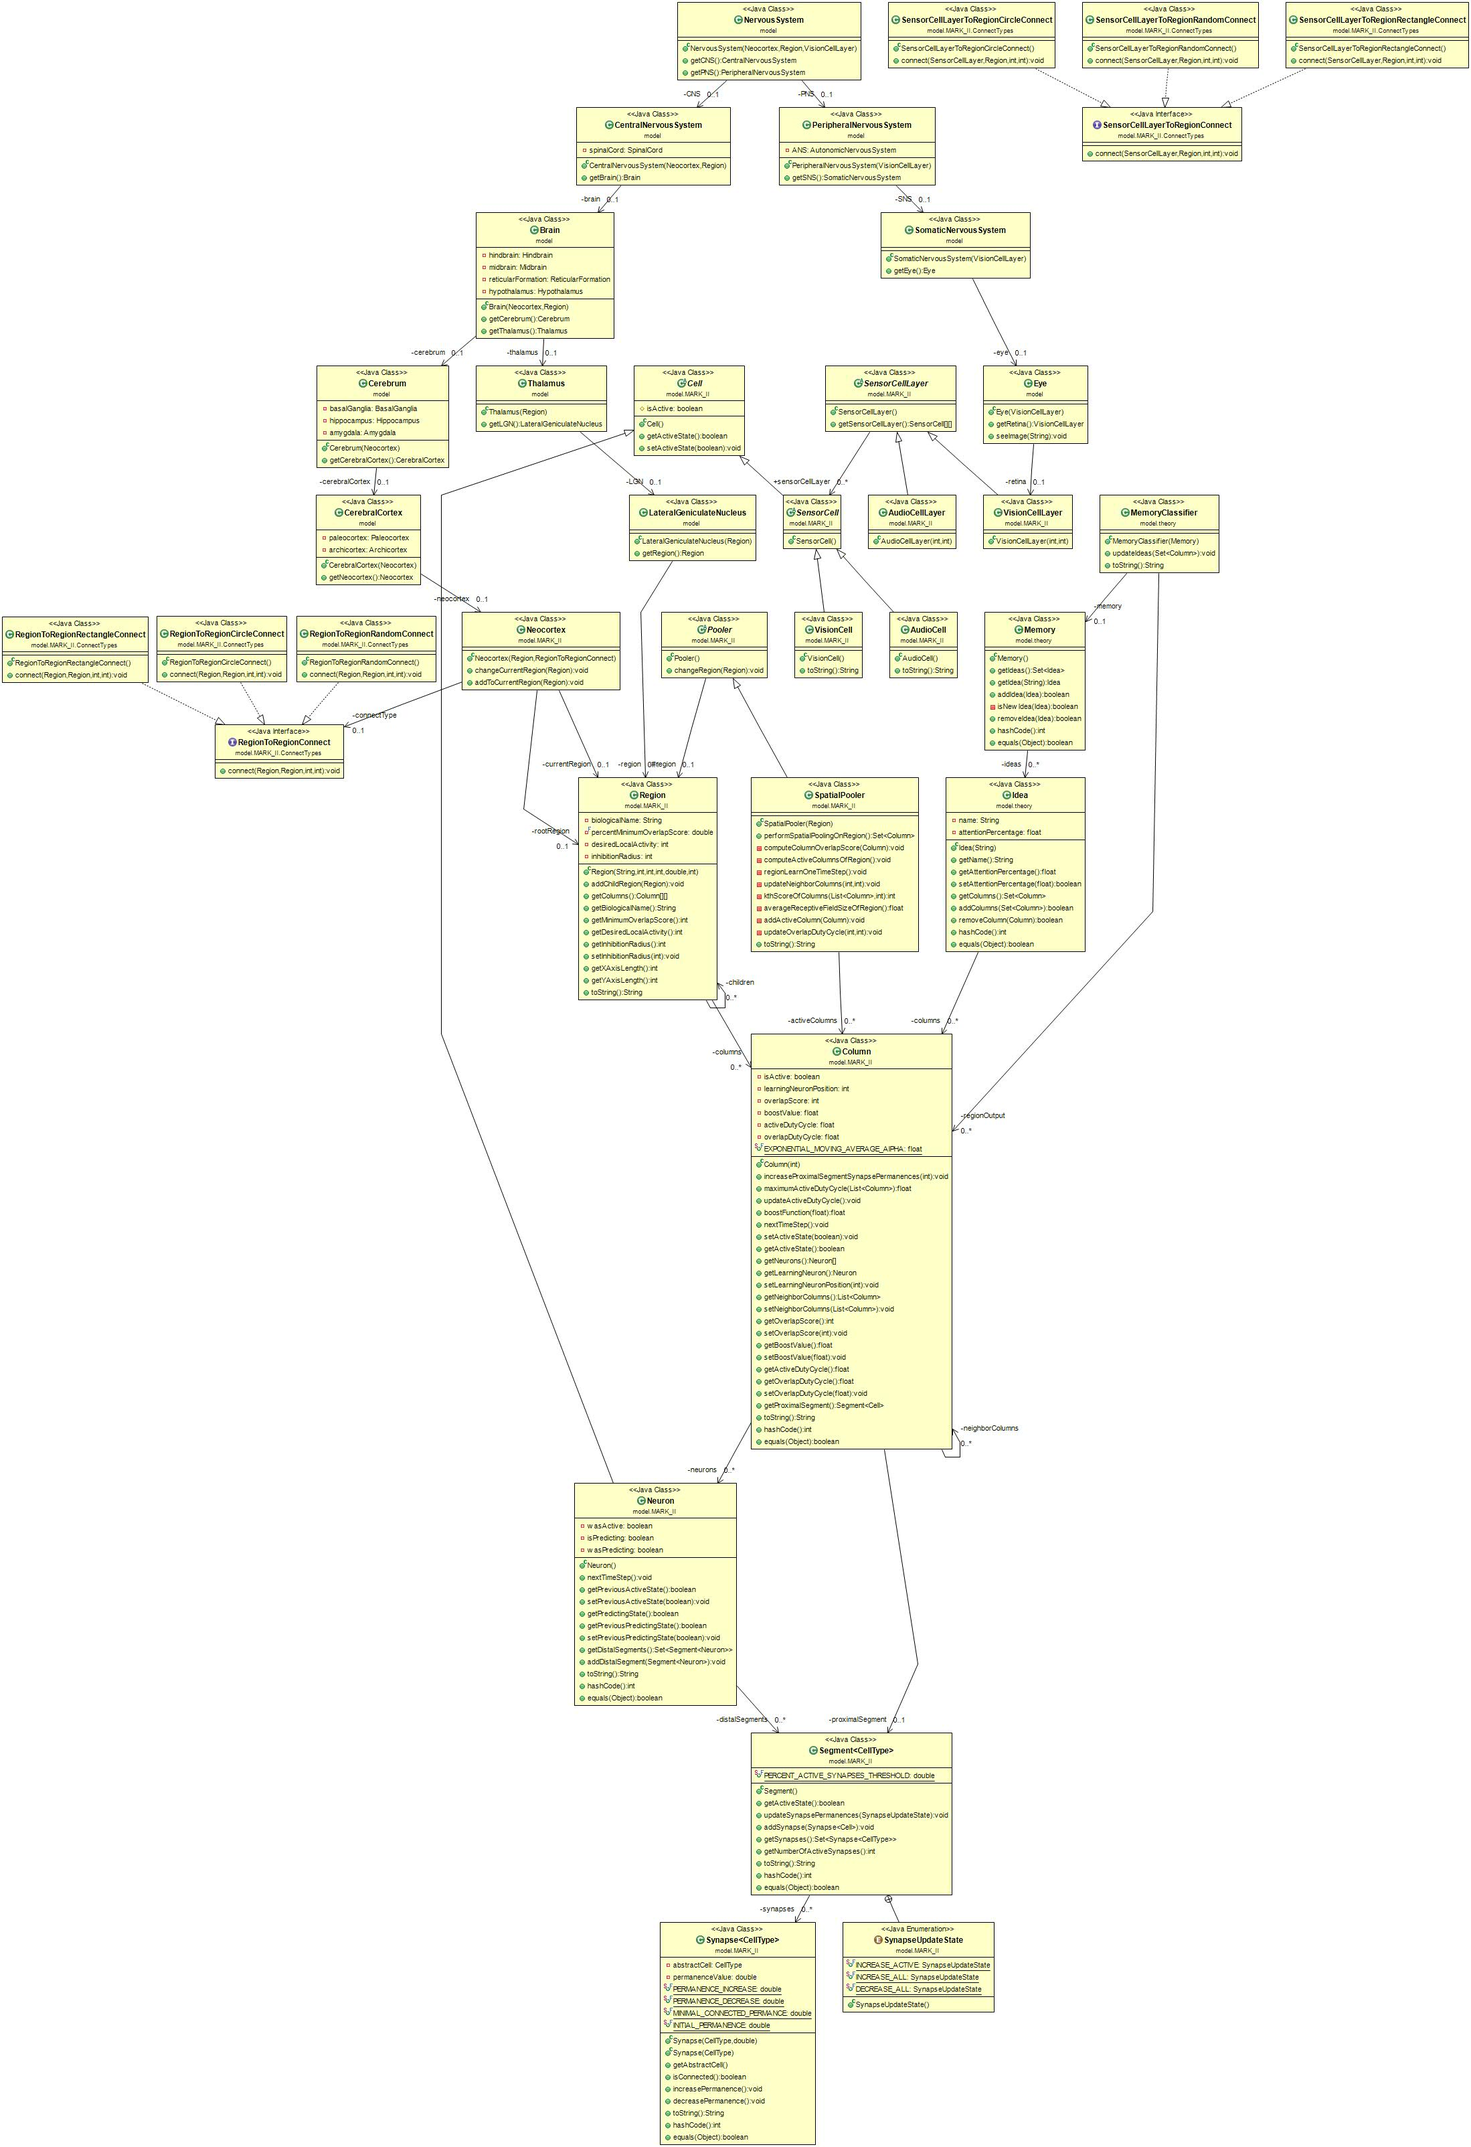
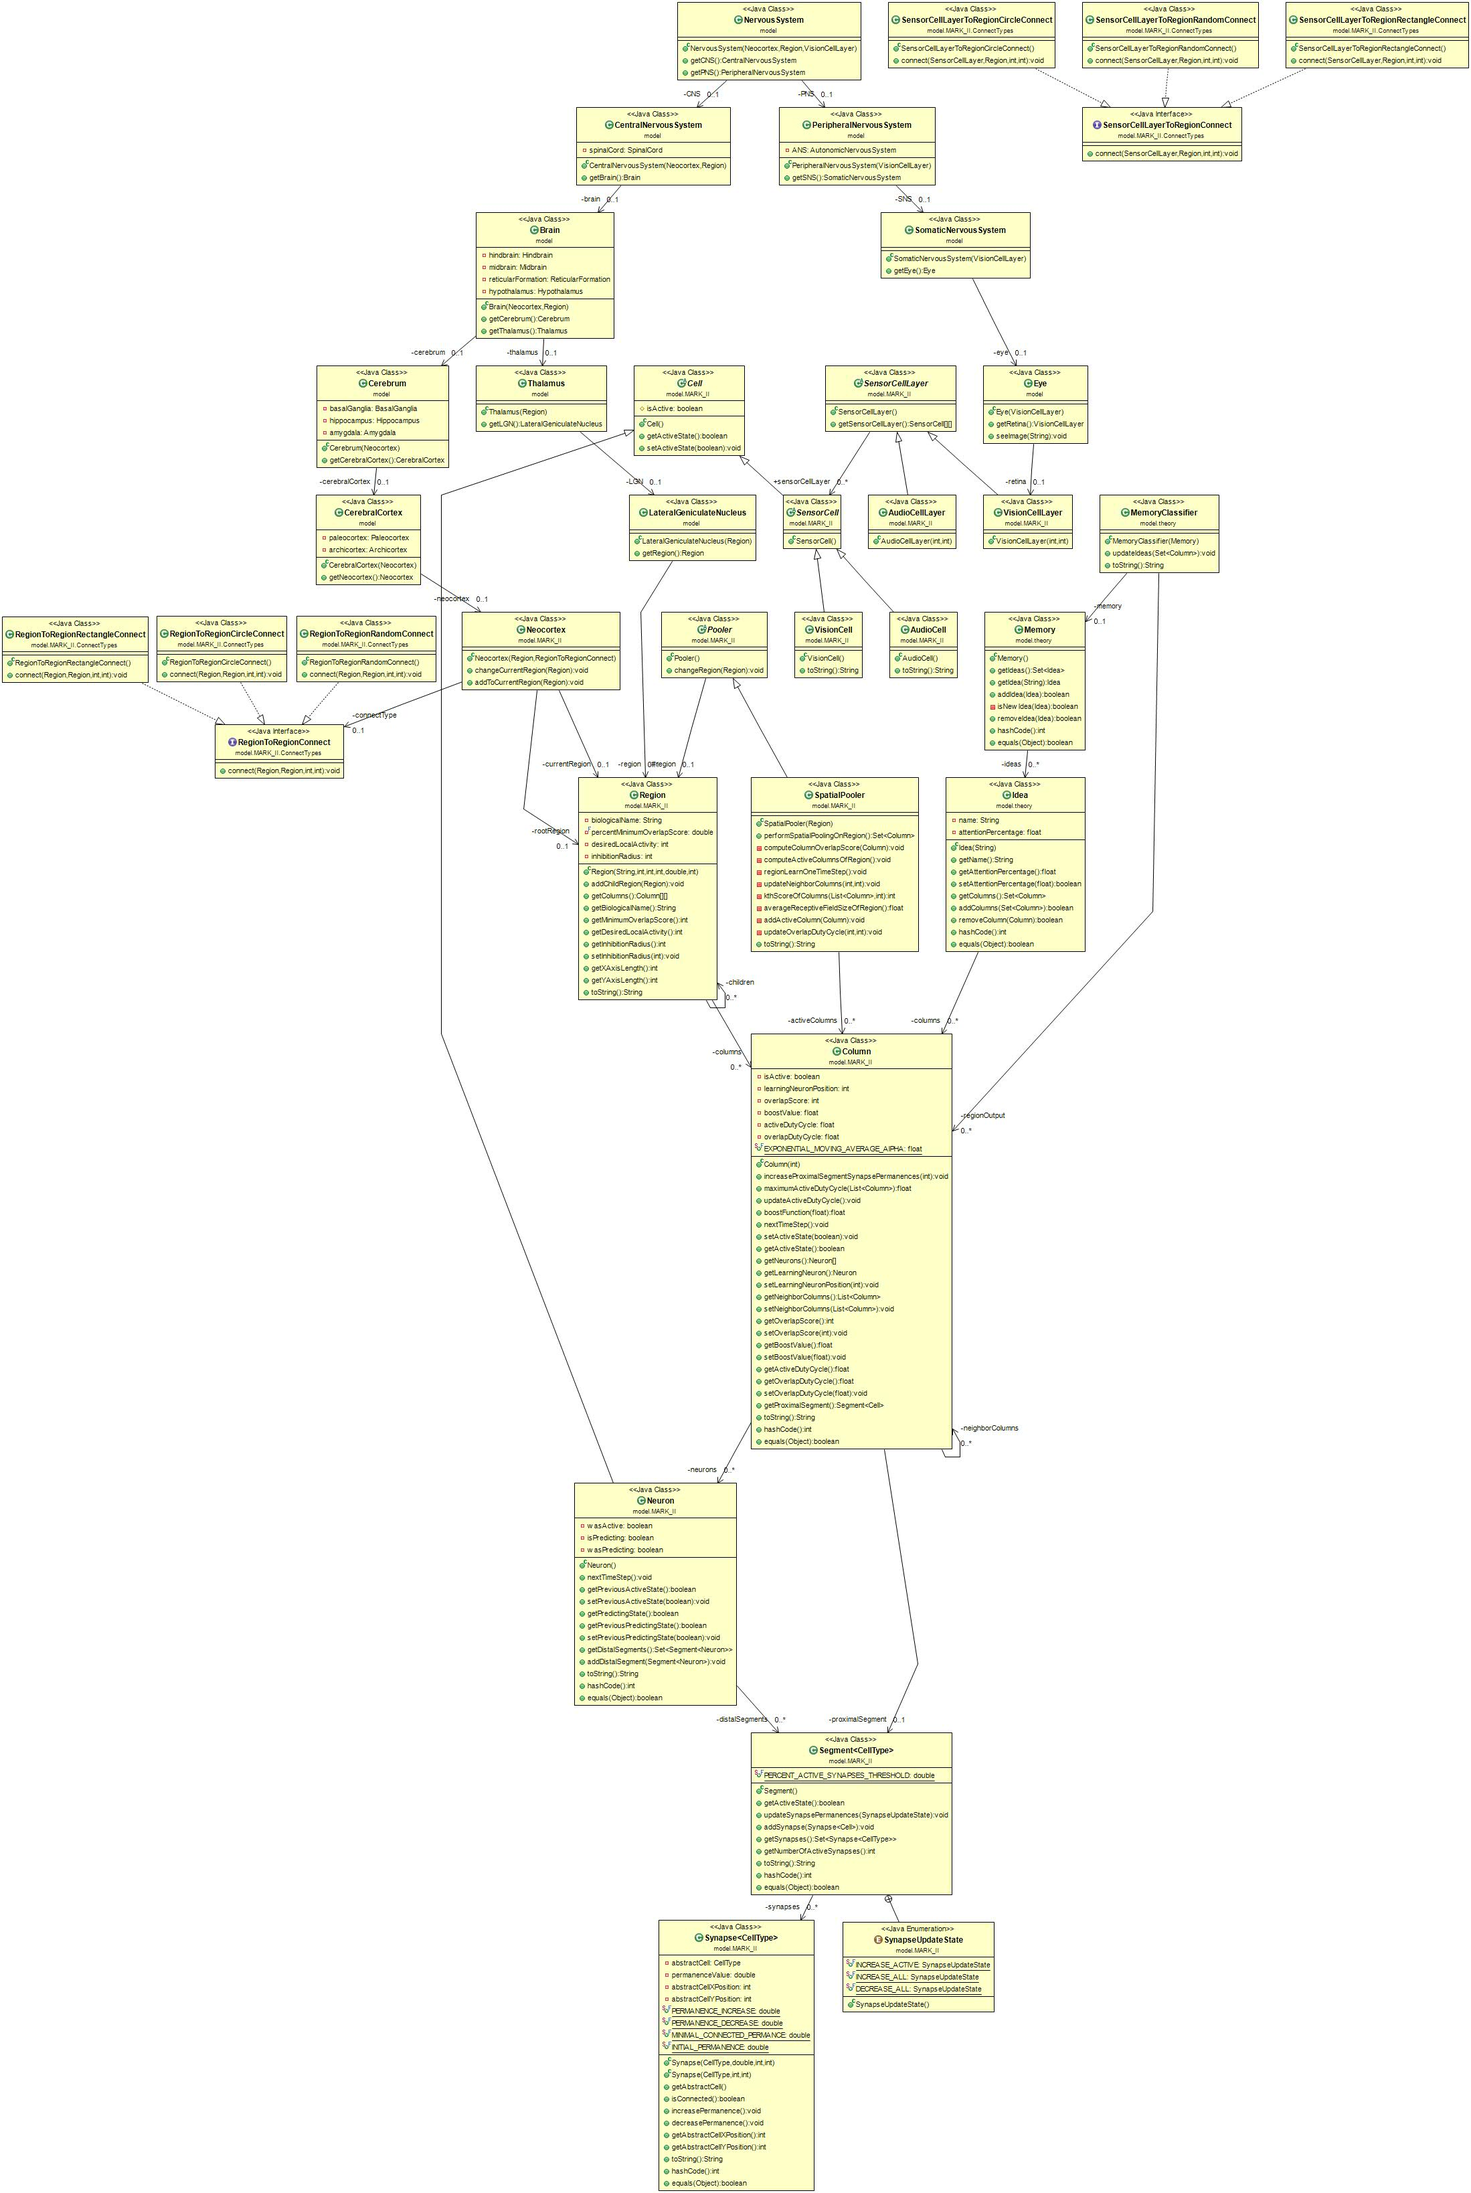
Fix how averageReceptiveFieldSizeOfRegion() method is implemented in SpatialPooler class. I used the fact that synapses store the location of the abstractCell it is connected to instead of storing the abstractCell location inside of the abstractCell object. Because the constructor for a Synapse was 

Changed region(s): [[0.0, 0.0, 0.8353, 0.9978], [0.7425, 0.0, 1.0, 0.0935], [0.6497, 0.4989, 0.6806, 0.5301]]

diff --git a/WalnutiQ/src/model/MARK_II/Synapse.java b/WalnutiQ/src/model/MARK_II/Synapse.java
@@ -33,6 +33,8 @@ public class Synapse<CellType extends Cell> implements
 	Serializable {
     private CellType abstractCell;
     private double permanenceValue;
+    private int abstractCellXPosition;
+    private int abstractCellYPosition;
 
     // class level variables that can be changed for all synapses
     /**
@@ -60,17 +62,18 @@ public class Synapse<CellType extends Cell> implements
      *            The AbstractCell object that will be providing data for a
      *            Synapse object.
      */
-    public Synapse(CellType abstractCell, double initialPermanence) {
+    public Synapse(CellType abstractCell, double initialPermanence, int abstractCellXPosition, int abstractCellYPosition) {
 	if (abstractCell == null) {
 	    throw new IllegalArgumentException(
 		    "abstractCell in Synapse constructor cannot be null");
 	} else if (initialPermanence < 0.0 || initialPermanence > 1.0) {
 	    throw new IllegalArgumentException(
 		    "initialPermanence in Synapse constructor must be between 0 and 1");
-	} else {
-	    this.abstractCell = abstractCell;
-	    this.permanenceValue = initialPermanence;
 	}
+	this.abstractCell = abstractCell;
+	this.permanenceValue = initialPermanence;
+	this.abstractCellXPosition = abstractCellXPosition;
+	this.abstractCellYPosition = abstractCellYPosition;
     }
 
     /**
@@ -81,7 +84,7 @@ public class Synapse<CellType extends Cell> implements
      *            The AbstractCell object that will be providing data for a
      *            Synapse object.
      */
-    public Synapse(CellType abstractCell) {
+    public Synapse(CellType abstractCell, int abstractCellXPosition, int abstractCellYPosition) {
 	if (abstractCell == null) {
 	    throw new IllegalArgumentException(
 		    "abstractCell in Synapse constructor cannot be null");
@@ -89,6 +92,8 @@ public class Synapse<CellType extends Cell> implements
 	    this.abstractCell = abstractCell;
 	    this.permanenceValue = INITIAL_PERMANENCE;
 	}
+	this.abstractCellXPosition = abstractCellXPosition;
+	this.abstractCellYPosition = abstractCellYPosition;
     }
 
     /**
@@ -130,6 +135,14 @@ public class Synapse<CellType extends Cell> implements
 		- PERMANENCE_DECREASE);
     }
 
+    public int getAbstractCellXPosition() {
+	return this.abstractCellXPosition;
+    }
+
+    public int getAbstractCellYPosition() {
+	return this.abstractCellYPosition;
+    }
+
     @Override
     public String toString() {
 	StringBuilder stringBuilder = new StringBuilder();
@@ -138,6 +151,9 @@ public class Synapse<CellType extends Cell> implements
 	stringBuilder.append("\n----Synapse Information----");
 	stringBuilder.append("\n Connected to a: ");
 	stringBuilder.append(this.abstractCell.toString());
+	stringBuilder.append("\n Located at: ");
+	stringBuilder.append("(" + this.abstractCellXPosition + ", ");
+	stringBuilder.append(this.abstractCellYPosition + ")");
 	stringBuilder.append("\npermanenceValue: ");
 	stringBuilder.append(this.permanenceValue);
 	stringBuilder.append("\n    isConnected: ");
@@ -145,7 +161,7 @@ public class Synapse<CellType extends Cell> implements
 	    stringBuilder.append("false");
 	} else {
 	    stringBuilder.append("true");
-	}
+	};
 	stringBuilder.append("\n===========================");
 	String synapseInformation = stringBuilder.toString();
 	return synapseInformation;

diff --git a/WalnutiQ/tests/model/MARK_II/Stub_Synapse.java b/WalnutiQ/tests/model/MARK_II/Stub_Synapse.java
@@ -6,8 +6,8 @@ public class Stub_Synapse<CellType extends Stub_Cell>
 	implements Serializable {
     private CellType abstractCell;
     private double permanenceValue;
-    private int abstractCellX;
-    private int abstractCellY;
+    private int abstractCellXPosition;
+    private int abstractCellYPosition;
 
     // class level variables that can be changed for all synapses
     /**
@@ -35,17 +35,21 @@ public class Stub_Synapse<CellType extends Stub_Cell>
      *            The AbstractCell object that will be providing data for a
      *            Synapse object.
      */
-    public Stub_Synapse(CellType abstractCell, double initialPermanence) {
+    public Stub_Synapse(CellType abstractCell, double initialPermanence, int abstractCellXPosition, int abstractCellYPosition) {
 	if (abstractCell == null) {
 	    throw new IllegalArgumentException(
 		    "abstractCell in Synapse constructor cannot be null");
 	} else if (initialPermanence < 0.0 || initialPermanence > 1.0) {
 	    throw new IllegalArgumentException(
 		    "initialPermanence in Synapse constructor must be between 0 and 1");
-	} else {
-	    this.abstractCell = abstractCell;
-	    this.permanenceValue = initialPermanence;
+	} else if (abstractCellXPosition < 0 || abstractCellYPosition < 0) {
+	    throw new IllegalArgumentException("abstractCellXPosition & abstract"
+		    + "CellYPosition must be greater than 0");
 	}
+	this.abstractCell = abstractCell;
+	this.permanenceValue = initialPermanence;
+	this.abstractCellXPosition = abstractCellXPosition;
+	this.abstractCellYPosition = abstractCellYPosition;
     }
 
     /**
@@ -56,7 +60,7 @@ public class Stub_Synapse<CellType extends Stub_Cell>
      *            The AbstractCell object that will be providing data for a
      *            Synapse object.
      */
-    public Stub_Synapse(CellType abstractCell) {
+    public Stub_Synapse(CellType abstractCell, int abstractCellXPosition, int abstractCellYPosition) {
 	if (abstractCell == null) {
 	    throw new IllegalArgumentException(
 		    "abstractCell in Synapse constructor cannot be null");
@@ -64,6 +68,8 @@ public class Stub_Synapse<CellType extends Stub_Cell>
 	    this.abstractCell = abstractCell;
 	    this.permanenceValue = INITIAL_PERMANENCE;
 	}
+	this.abstractCellXPosition = abstractCellXPosition;
+	this.abstractCellYPosition = abstractCellYPosition;
     }
 
     /**
@@ -117,6 +123,14 @@ public class Stub_Synapse<CellType extends Stub_Cell>
 		- PERMANENCE_DECREASE);
     }
 
+    public int getAbstractCellXPosition() {
+	return this.abstractCellXPosition;
+    }
+
+    public int getAbstractCellYPosition() {
+	return this.abstractCellYPosition;
+    }
+
     @Override
     public String toString() {
 	StringBuilder stringBuilder = new StringBuilder();
@@ -125,6 +139,9 @@ public class Stub_Synapse<CellType extends Stub_Cell>
 	stringBuilder.append("\n----Synapse Information----");
 	stringBuilder.append("\n Connected to a: ");
 	stringBuilder.append(this.abstractCell.toString());
+	stringBuilder.append("\n Located at: ");
+	stringBuilder.append("(" + this.abstractCellXPosition + ", ");
+	stringBuilder.append(this.abstractCellYPosition + ")");
 	stringBuilder.append("\npermanenceValue: ");
 	stringBuilder.append(this.permanenceValue);
 	stringBuilder.append("\n    isConnected: ");

diff --git a/WalnutiQ/tests/model/MARK_II/Test_Segment.java b/WalnutiQ/tests/model/MARK_II/Test_Segment.java
@@ -27,11 +27,11 @@ public class Test_Segment extends junit.framework.TestCase {
 	// add 1 active synapse
 	Stub_VisionCell activeVisionCell_1 = new Stub_VisionCell();
 	activeVisionCell_1.setActiveState(true);
-	tenSynapses.add(new Stub_Synapse<Stub_Cell>(new Stub_VisionCell(), 0.21));
+	tenSynapses.add(new Stub_Synapse<Stub_Cell>(new Stub_VisionCell(), 0.21, 1, 1));
 
 	// and 9 inactive synapses
 	for (int i = 1; i < 10; i++) {
-	    tenSynapses.add(new Stub_Synapse<Stub_Cell>(new Stub_VisionCell(), 0.20-i*0.01));
+	    tenSynapses.add(new Stub_Synapse<Stub_Cell>(new Stub_VisionCell(), 0.20-i*0.01, 1, 1));
 	}
 	assertEquals(10, tenSynapses.size());
 
@@ -40,14 +40,14 @@ public class Test_Segment extends junit.framework.TestCase {
 	assertFalse(this.proximalSegment.getActiveState());
 
 	// Case 2: number of active synapses within segment = activation threshold
-	this.proximalSegment.getSynapses().remove(new Stub_Synapse<Stub_Cell>(new Stub_VisionCell(), 0.19));
+	this.proximalSegment.getSynapses().remove(new Stub_Synapse<Stub_Cell>(new Stub_VisionCell(), 0.19, 1, 1));
 	Stub_VisionCell activeVisionCell_2 = new Stub_VisionCell();
 	activeVisionCell_2.setActiveState(true);
-	this.proximalSegment.getSynapses().add(new Stub_Synapse<Stub_Cell>(activeVisionCell_2, 0.22));
+	this.proximalSegment.getSynapses().add(new Stub_Synapse<Stub_Cell>(activeVisionCell_2, 0.22, 1, 1));
 	assertFalse(this.proximalSegment.getActiveState());
 
 	// Case 3: number of active synapses within segment > activation threshold
-	this.proximalSegment.getSynapses().remove(new Stub_Synapse<Stub_Cell>(new Stub_VisionCell(), 0.17));
+	this.proximalSegment.getSynapses().remove(new Stub_Synapse<Stub_Cell>(new Stub_VisionCell(), 0.17, 1, 1));
 	Stub_VisionCell activeVisionCell_3 = new Stub_VisionCell();
 	activeVisionCell_3.setActiveState(true);
 	//this.proximalSegment.getSynapses().add(new Stub_MARKII_Synapse<Stub_MARKII_AbstractCell>(activeVisionCell_3, 0.23));

diff --git a/WalnutiQ/tests/model/MARK_II/Test_Synapse.java b/WalnutiQ/tests/model/MARK_II/Test_Synapse.java
@@ -12,9 +12,9 @@ public class Test_Synapse extends junit.framework.TestCase {
 	this.visionCell_1 = new Stub_VisionCell();
 	this.visionCell_null = null;
 	this.synapse_1 = new Stub_Synapse<Stub_Cell>(
-		this.visionCell_1);
+		this.visionCell_1, 1, 1);
 	this.synapse_2 = new Stub_Synapse<Stub_Cell>(
-		this.visionCell_1, 0.19);
+		this.visionCell_1, 0.19, 1, 1);
     }
 
     public void testMARKII_Synapse() {
@@ -24,7 +24,7 @@ public class Test_Synapse extends junit.framework.TestCase {
 
 	try {
 	    this.synapse_3 = new Stub_Synapse<Stub_Cell>(
-			this.visionCell_null, 0.21);
+			this.visionCell_null, 0.21, 1, 1);
 	    fail("should've thrown an exception!");
 	} catch (IllegalArgumentException expected) {
 	    // no implementation
@@ -32,7 +32,7 @@ public class Test_Synapse extends junit.framework.TestCase {
 
 	try {
 	    this.synapse_4 = new Stub_Synapse<Stub_Cell>(
-			this.visionCell_1, 1.1);
+			this.visionCell_1, 1.1, 1, 1);
 	    fail("should've thrown an exception!");
 	} catch (IllegalArgumentException expected) {
 	    // no implementation
@@ -40,7 +40,7 @@ public class Test_Synapse extends junit.framework.TestCase {
 
 	try {
 	    this.synapse_4 = new Stub_Synapse<Stub_Cell>(
-			this.visionCell_1, -0.1);
+			this.visionCell_1, -0.1, 1, 1);
 	    fail("should've thrown an exception!");
 	} catch (IllegalArgumentException expected) {
 	    // no implementation

diff --git a/WalnutiQ/tests/model/MARK_II/Stub_SpatialPooler.java b/WalnutiQ/tests/model/MARK_II/Stub_SpatialPooler.java
@@ -300,12 +300,10 @@ public class Stub_SpatialPooler extends Stub_Pooler {
 		    // receptive
 		    // field
 		    for (Stub_Synapse synapse : connectedSynapes) {
-			// double dx = x - synapse.getAbstractCell().getX();
-			// double dy = y - synapse.getAbstractCell().getY();
-			// double synapseDistance = Math.sqrt(dx * dx + dy *
-			// dy);
-			// totalSynapseDistanceFromOriginColumn +=
-			// synapseDistance;
+			double dx = x - synapse.getAbstractCellXPosition();
+			double dy = y - synapse.getAbstractCellYPosition();
+			double synapseDistance = Math.sqrt(dx * dx + dy * dy);
+			totalSynapseDistanceFromOriginColumn += synapseDistance;
 			numberOfSynapses++;
 		    }
 		}

diff --git a/WalnutiQ/src/model/MARK_II/SpatialPooler.java b/WalnutiQ/src/model/MARK_II/SpatialPooler.java
@@ -308,10 +308,10 @@ public class SpatialPooler extends Pooler {
 		    // receptive
 		    // field
 		    for (Synapse synapse : connectedSynapes) {
-//			double dx = x - synapse.getAbstractCell().getX();
-//			double dy = y - synapse.getAbstractCell().getY();
-//			double synapseDistance = Math.sqrt(dx * dx + dy * dy);
-//			totalSynapseDistanceFromOriginColumn += synapseDistance;
+			double dx = x - synapse.getAbstractCellXPosition();
+			double dy = y - synapse.getAbstractCellYPosition();
+			double synapseDistance = Math.sqrt(dx * dx + dy * dy);
+			totalSynapseDistanceFromOriginColumn += synapseDistance;
 			numberOfSynapses++;
 		    }
 		}

diff --git a/WalnutiQ/tests/model/MARK_II/ConnectTypes/Stub_SensorCellLayerToRegionRectangleConnect.java b/WalnutiQ/tests/model/MARK_II/ConnectTypes/Stub_SensorCellLayerToRegionRectangleConnect.java
@@ -63,7 +63,7 @@ public class Stub_SensorCellLayerToRegionRectangleConnect implements Stub_Sensor
 			// # of synapses connected/add to this proximal segment
 			// = connectingRectangleXAxisLength *
 			// connectingRectangleYAxisLength
-			column.getProximalSegment().addSynapse(new Stub_Synapse<Stub_Cell>(sensorCells[sensorCellX][sensorCellY]));
+			column.getProximalSegment().addSynapse(new Stub_Synapse<Stub_Cell>(sensorCells[sensorCellX][sensorCellY], sensorCellX, sensorCellY));
 		    }
 		}
 	    }

diff --git a/WalnutiQ/src/model/MARK_II/ConnectTypes/SensorCellLayerToRegionRectangleConnect.java b/WalnutiQ/src/model/MARK_II/ConnectTypes/SensorCellLayerToRegionRectangleConnect.java
@@ -64,7 +64,7 @@ public class SensorCellLayerToRegionRectangleConnect implements SensorCellLayerT
 			// # of synapses connected/add to this proximal segment
 			// = connectingRectangleXAxisLength *
 			// connectingRectangleYAxisLength
-			column.getProximalSegment().addSynapse(new Synapse<Cell>(sensorCells[sensorCellX][sensorCellY]));
+			column.getProximalSegment().addSynapse(new Synapse<Cell>(sensorCells[sensorCellX][sensorCellY], sensorCellX, sensorCellY));
 		    }
 		}
 	    }

diff --git a/WalnutiQ/tests/model/MARK_II/ConnectTypes/Stub_RegionToRegionRectangleConnect.java b/WalnutiQ/tests/model/MARK_II/ConnectTypes/Stub_RegionToRegionRectangleConnect.java
@@ -65,7 +65,7 @@ public class Stub_RegionToRegionRectangleConnect implements Stub_RegionToRegionC
 			    // # of synapses connected/add = connectingRectangleXAxisLength *
 			    // connectingRectangleYAxisLength * column.getNeurons.length
 			    parentColumn.getProximalSegment().addSynapse(
-				    new Stub_Synapse<Stub_Cell>(childColumnXYNeuron));
+				    new Stub_Synapse<Stub_Cell>(childColumnXYNeuron, childColumnX, childColumnY));
 			}
 		    }
 		}

diff --git a/WalnutiQ/src/model/MARK_II/ConnectTypes/RegionToRegionRectangleConnect.java b/WalnutiQ/src/model/MARK_II/ConnectTypes/RegionToRegionRectangleConnect.java
@@ -67,7 +67,7 @@ public class RegionToRegionRectangleConnect implements RegionToRegionConnect {
 			    // # of synapses connected/add = connectingRectangleXAxisLength *
 			    // connectingRectangleYAxisLength * column.getNeurons.length
 			    parentColumn.getProximalSegment().addSynapse(
-				    new Synapse<Cell>(childColumnXYNeuron));
+				    new Synapse<Cell>(childColumnXYNeuron, childColumnX, childColumnY));
 			}
 		    }
 		}
